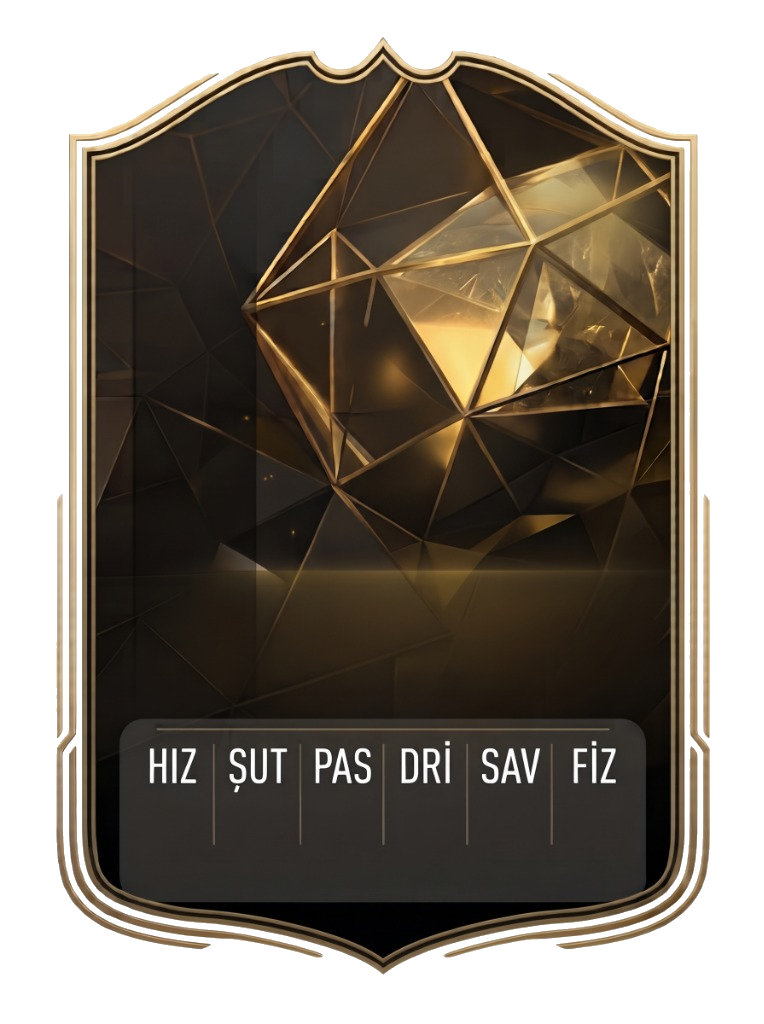
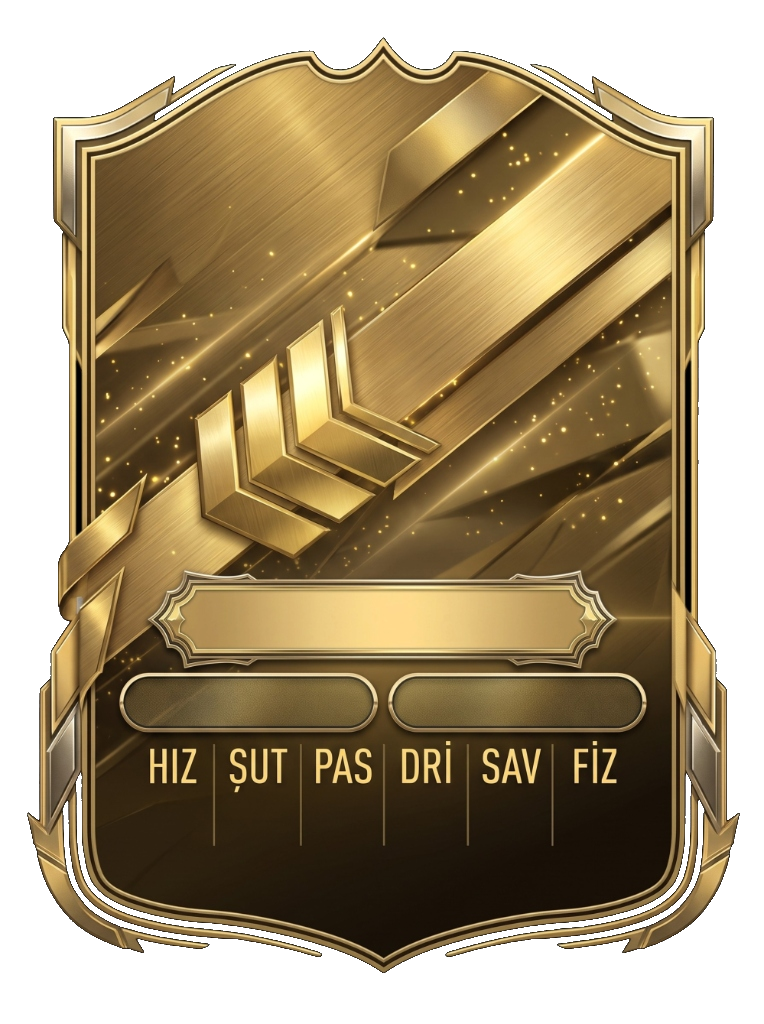
feat(gold): update Gold card template to custom brushed gold with 2 oval playstyle slots and 3D golden soccer ball shield

diff --git a/src/components/card/FCCard.tsx b/src/components/card/FCCard.tsx
@@ -199,22 +199,22 @@ export const FCCard: React.FC<Props> = ({
       default:
         return {
           template: '/cards/card_gold.png',
-          ovrColor: 'text-[#E5C07B]',
-          nameColor: 'text-white',
-          nicknameColor: 'text-[#E5C07B]',
-          statValColor: 'text-[#E5C07B]',
-          ovalTextColor: 'text-[#5eead4]',
-          ovalIconColor: 'text-[#5eead4]',
-          ovalDropShadow: 'drop-shadow-[0_1px_2px_rgba(0,0,0,0.95)]',
-          nameTop: 'top-[53.5%]',
-          statTop: 'top-[78.2%]',
-          statBounds: 'left-[17%] right-[17%]',
-          ovalsTop: '',
-          ovalsBounds: '',
-          ovalsHeight: '',
-          photoFrame: 'top-[12%] left-[12%] right-[8%] h-[47%]',
-          isGold: true,
-          label: 'GOLD RARE',
+          ovrColor: 'text-[#FDE047]',
+          nameColor: 'text-[#1C1917]',
+          nicknameColor: 'text-[#FBBF24]',
+          statValColor: 'text-[#FDE68A]',
+          ovalTextColor: 'text-[#FEF08A]',
+          ovalIconColor: 'text-[#FACC15]',
+          ovalDropShadow: 'drop-shadow-[0_1px_3px_rgba(0,0,0,0.95)]',
+          nameTop: 'top-[51.8%]',
+          statTop: 'top-[80.4%]',
+          statBounds: 'left-[11.3%] right-[11.3%]',
+          ovalsTop: 'top-[66.6%]',
+          ovalsBounds: 'left-[9.5%] right-[9.5%]',
+          ovalsHeight: 'h-[5.8%]',
+          photoFrame: 'top-[11%] left-[12%] right-[8%] h-[44%]',
+          isGold: false,
+          label: 'STANDART • GOLD',
         };
     }
   };
@@ -312,7 +312,7 @@ export const FCCard: React.FC<Props> = ({
           style={{
             maskImage: 'linear-gradient(to bottom, black 72%, transparent 100%)',
             WebkitMaskImage: 'linear-gradient(to bottom, black 72%, transparent 100%)',
-            transform: `translateZ(1.5px) translate3d(${pX * 0.015}px, ${pY * 0.015}px, 0)`,
+            transform: `translateZ(2px) translate3d(${pX * 0.02}px, ${pY * 0.02}px, 0)`,
             transition: isHovered ? 'none' : 'transform 0.35s ease-out',
           }}
         >
@@ -440,9 +440,9 @@ export const FCCard: React.FC<Props> = ({
           {/* İsim: Tam isimlik kısmının ortasında */}
           <h3
             className={`font-black uppercase tracking-wide ${themeConfig.nameColor} ${
-              theme === 'legend' || theme === 'bidon' ? 'text-lg sm:text-xl' : sizeConfig.nameText
+              theme === 'legend' || theme === 'bidon' || theme === 'gold' ? 'text-lg sm:text-xl' : sizeConfig.nameText
             } ${
-              theme === 'legend' || theme === 'bidon'
+              theme === 'legend' || theme === 'bidon' || theme === 'gold'
                 ? 'drop-shadow-none'
                 : 'drop-shadow-[0_2px_5px_rgba(0,0,0,0.95)]'
             } truncate w-full px-4`}
@@ -451,73 +451,41 @@ export const FCCard: React.FC<Props> = ({
           </h3>
         </div>
 
-        {/* PlayStyles Rozetleri (3D Parallax: translateZ(4px)) - Sadece Simge ve Yazı, Kutusuz ve Çerçevesiz */}
+        {/* PlayStyles Rozetleri (3D Parallax: translateZ(3.5px)) - Sadece Simge ve Yazı, Kutusuz ve Çerçevesiz */}
         {showBadges && (
-          <>
-            {themeConfig.isGold ? (
-              /* Altın Kart: Sağ/Orta Alt Rozetleri */
-              <div
-                className="absolute bottom-[4.8%] right-[8%] left-[8%] flex justify-end items-center gap-2 z-20 pointer-events-none select-none"
-                style={{
-                  transform: `translateZ(4px) translate3d(${pX * 0.04}px, ${pY * 0.04}px, 0)`,
-                  transition: isHovered ? 'none' : 'transform 0.35s ease-out',
-                }}
-              >
-                {player.playstyles.slice(0, 2).map((ps, idx) => {
-                  const cfg = PLAYSTYLE_CONFIG[ps];
-                  if (!cfg) return null;
-                  const Icon = cfg.icon;
-                  return (
-                    <div
-                      key={idx}
-                      className="flex items-center justify-end gap-1.5 flex-1 min-w-0 max-w-[49%]"
-                      title={`${cfg.label}: ${cfg.description}`}
-                    >
-                      <Icon className={`w-3.5 h-3.5 ${themeConfig.ovalIconColor} shrink-0 ${themeConfig.ovalDropShadow}`} />
-                      <span className={`font-bold ${themeConfig.ovalTextColor} ${themeConfig.ovalDropShadow} truncate tracking-tight text-[10px] sm:text-[11px]`}>
-                        {cfg.label}
-                      </span>
-                    </div>
-                  );
-                })}
-              </div>
-            ) : (
-              /* Diğer Tüm Tematik Kartlar: Şablon Yuvaları Üzerinde Saf Simge ve Yazı */
-              <div
-                className={`absolute ${themeConfig.ovalsTop} ${themeConfig.ovalsBounds} ${themeConfig.ovalsHeight} grid grid-cols-2 gap-2 z-20 pointer-events-none select-none`}
-                style={{
-                  transform: `translateZ(4px) translate3d(${pX * 0.04}px, ${pY * 0.04}px, 0)`,
-                  transition: isHovered ? 'none' : 'transform 0.35s ease-out',
-                }}
-              >
-                {player.playstyles.slice(0, 2).map((ps, idx) => {
-                  const cfg = PLAYSTYLE_CONFIG[ps];
-                  if (!cfg) return null;
-                  const Icon = cfg.icon;
+          <div
+            className={`absolute ${themeConfig.ovalsTop} ${themeConfig.ovalsBounds} ${themeConfig.ovalsHeight} grid grid-cols-2 gap-2 z-20 pointer-events-none select-none`}
+            style={{
+              transform: `translateZ(3.5px) translate3d(${pX * 0.035}px, ${pY * 0.035}px, 0)`,
+              transition: isHovered ? 'none' : 'transform 0.35s ease-out',
+            }}
+          >
+            {player.playstyles.slice(0, 2).map((ps, idx) => {
+              const cfg = PLAYSTYLE_CONFIG[ps];
+              if (!cfg) return null;
+              const Icon = cfg.icon;
 
-                  return (
-                    <div
-                      key={idx}
-                      className="h-full w-full flex items-center justify-center gap-1.5 px-1"
-                      title={`${cfg.label}: ${cfg.description}`}
-                    >
-                      <Icon className={`w-3.5 h-3.5 sm:w-4 sm:h-4 ${themeConfig.ovalIconColor} shrink-0 ${themeConfig.ovalDropShadow}`} />
-                      <span className={`text-[10px] sm:text-[11px] md:text-xs font-bold tracking-tight truncate ${themeConfig.ovalTextColor} ${themeConfig.ovalDropShadow}`}>
-                        {cfg.label}
-                      </span>
-                    </div>
-                  );
-                })}
-              </div>
-            )}
-          </>
+              return (
+                <div
+                  key={idx}
+                  className="h-full w-full flex items-center justify-center gap-1.5 px-1"
+                  title={`${cfg.label}: ${cfg.description}`}
+                >
+                  <Icon className={`w-3.5 h-3.5 sm:w-4 sm:h-4 ${themeConfig.ovalIconColor} shrink-0 ${themeConfig.ovalDropShadow}`} />
+                  <span className={`text-[10px] sm:text-[11px] md:text-xs font-bold tracking-tight truncate ${themeConfig.ovalTextColor} ${themeConfig.ovalDropShadow}`}>
+                    {cfg.label}
+                  </span>
+                </div>
+              );
+            })}
+          </div>
         )}
 
-        {/* 6 Temel Saha İstatistiği (3D Parallax: translateZ(3px)) */}
+        {/* 6 Temel Saha İstatistiği (3D Parallax: translateZ(2.5px)) */}
         <div
           className={`absolute ${themeConfig.statBounds} ${themeConfig.statTop} grid grid-cols-6 text-center pointer-events-none select-none z-20`}
           style={{
-            transform: `translateZ(3px) translate3d(${pX * 0.03}px, ${pY * 0.03}px, 0)`,
+            transform: `translateZ(2.5px) translate3d(${pX * 0.025}px, ${pY * 0.025}px, 0)`,
             transition: isHovered ? 'none' : 'transform 0.35s ease-out',
           }}
         >

diff --git a/src/components/match/TacticalPitch.tsx b/src/components/match/TacticalPitch.tsx
@@ -30,7 +30,7 @@ const THEME_SHIELDS: Record<CardTheme, string> = {
 };
 
 const THEME_COLORS: Record<CardTheme, { ovr: string; role: string; name: string }> = {
-  gold: { ovr: 'text-[#F5D77F]', role: 'text-[#E5C07B]', name: 'text-amber-100' },
+  gold: { ovr: 'text-[#FDE047]', role: 'text-[#FBBF24]', name: 'text-neutral-900 font-extrabold' },
   totw: { ovr: 'text-[#FDE68A]', role: 'text-[#FBBF24]', name: 'text-white' },
   inform: { ovr: 'text-[#FED7AA]', role: 'text-[#FB923C]', name: 'text-orange-100' },
   revir: { ovr: 'text-[#7DD3FC]', role: 'text-[#38BDF8]', name: 'text-sky-100' },
